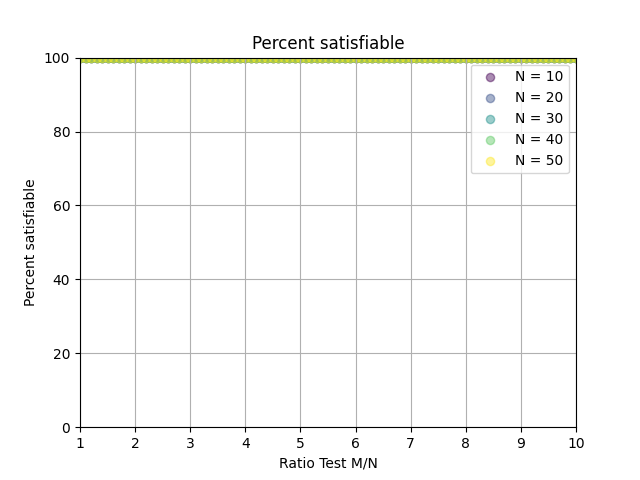
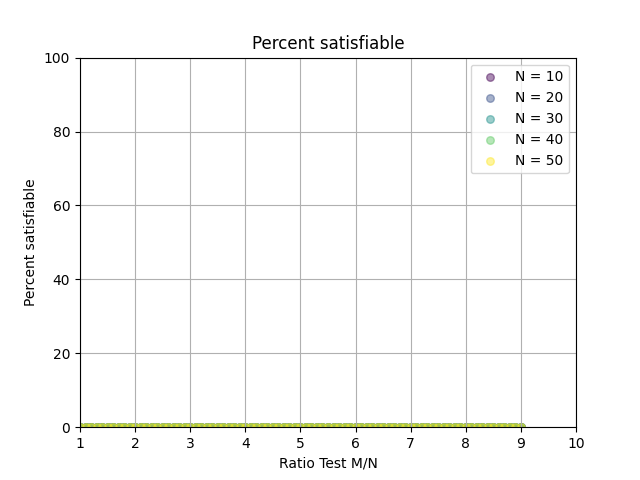
Some fix

Changed region(s): [[0.125, 0.125, 0.9062, 0.1562], [0.125, 0.875, 0.8125, 0.9062]]

diff --git a/main.py b/main.py
@@ -8,14 +8,12 @@ debug = False
 
 
 def probability_test(n_var, num_c, n_test):
-    print("Analyzing N:", n_var)
     x = []
     y = []
     time = []
     for m in num_c:
         ratio = m / n_var
         x.append(ratio)
-        print(ratio)
         sum = 0
         t = 0
         for i in range(n_test):
@@ -27,6 +25,7 @@ def probability_test(n_var, num_c, n_test):
             if result is not None:
                 sum = sum + 1
                 # print("Satisfiable with assignment:", result)
+        print("Analyzed N:", n_var, "Ratio:", ratio, "Time:", t / n_test)
         time.append(t / n_test)
         y.append((sum / n_test) * 100)
     return x, y, time
@@ -34,17 +33,17 @@ def probability_test(n_var, num_c, n_test):
 
 if __name__ == "__main__":
     n_vars = [10, 20, 30, 40, 50]
-    n_test = 300
+    n_test = 200
     color = ['#440154', '#3b528b', '#21918c', '#5dc963', '#fde725']
     j = 0
     x_saved = []
     times_saved = []
     for var in n_vars:
-        num_c = np.arange(var, (var * 10) + 1, int(var / 10))
+        num_c = np.arange(var, (var * 9) + 1, int(var / 10))
         x, y, times = probability_test(var, num_c, n_test)
         times_saved.append(times)
         x_saved.append(x)
-        plt.scatter(x, y, color=color[j], s=35, alpha=0.45, label="N = " + str(var))
+        plt.scatter(x, y, color=color[j], s=30, alpha=0.45, label="N = " + str(var))
         j = j + 1
 
     plt.title('Percent satisfiable')
@@ -62,7 +61,7 @@ if __name__ == "__main__":
 
     j = 0
     for i in range(len(times_saved)):
-        plt.scatter(x_saved[i], times_saved[i], color=color[j], s=35, alpha=0.45, label="N = " + str(n_vars[i]))
+        plt.scatter(x_saved[i], times_saved[i], color=color[j], s=30, alpha=0.45, label="N = " + str(n_vars[i]))
         j = j + 1
 
     plt.title('Mean times execution')

diff --git a/Generation_CNF.py b/Generation_CNF.py
@@ -6,8 +6,15 @@ def generate_cnf(nv, nc):
     for _ in range(nc):
         clause_size = 3  # 3 SAT come dal paper
         clause = set()
+        literals = []
         while len(clause) < clause_size:
-            literal = random.randint(1, nv)
+
+            while True:
+                literal = random.randint(1, nv)
+                if not (literal in literals):
+                    literals.append(literal)
+                    break
+
             if random.choice([True, False]):
                 literal = -literal
             clause.add(literal)
